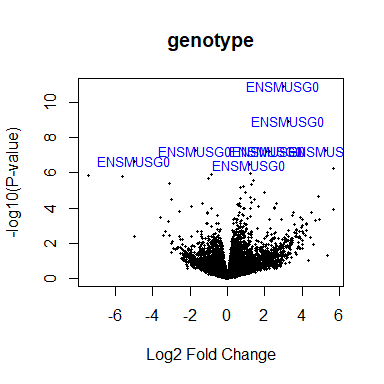
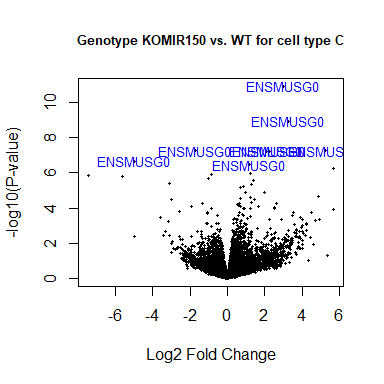
better Venn diagrams

Changed region(s): [[0.1875, 0.0938, 0.9062, 0.1562]]

diff --git a/data_analysis/DE_Analysis_mm_with_quizzes.md b/data_analysis/DE_Analysis_mm_with_quizzes.md
@@ -1833,7 +1833,7 @@ fit <- lmFit(y, mm)
 ```
 
 ```r
-contrast.matrix <- makeContrasts(genotypeKOMIR150, cell_typeNC, levels=colnames(coef(fit)))
+contrast.matrix <- makeContrasts(genotypeKOMIR150, levels=colnames(coef(fit)))
 fit2 <- contrasts.fit(fit, contrast.matrix)
 fit2 <- eBayes(fit2)
 top.table <- topTable(fit2, coef = 1, sort.by = "P", n = 40)
@@ -1843,37 +1843,37 @@ top.table <- topTable(fit2, coef = 1, sort.by = "P", n = 40)
 
 
 ```r
-volcanoplot(fit2, coef=1, highlight=8, names=rownames(fit2), main="genotype")
+volcanoplot(fit2, coef=1, highlight=8, names=rownames(fit2), main="Genotype KOMIR150 vs. WT for cell type C", cex.main = 0.8)
 ```
 
 ![](DE_Analysis_mm_with_quizzes_files/figure-html/unnamed-chunk-18-1.png)<!-- -->
 
 ```r
 head(anno[match(rownames(fit2), anno$Gene.stable.ID.version),
-     c("Gene.stable.ID", "Gene.name") ])
+     c("Gene.stable.ID.version", "Gene.name") ])
 ```
 
 ```
-##           Gene.stable.ID Gene.name
-## 48443 ENSMUSG00000098104    Gm6085
-## 48521 ENSMUSG00000033845    Mrpl15
-## 48766 ENSMUSG00000025903    Lypla1
-## 48915 ENSMUSG00000033813     Tcea1
-## 49347 ENSMUSG00000033793   Atp6v1h
-## 49551 ENSMUSG00000025907    Rb1cc1
+##       Gene.stable.ID.version Gene.name
+## 48443   ENSMUSG00000098104.2    Gm6085
+## 48521  ENSMUSG00000033845.14    Mrpl15
+## 48766  ENSMUSG00000025903.15    Lypla1
+## 48915  ENSMUSG00000033813.16     Tcea1
+## 49347  ENSMUSG00000033793.13   Atp6v1h
+## 49551  ENSMUSG00000025907.15    Rb1cc1
 ```
 
 ```r
-identical(anno[match(rownames(fit2), anno$Gene.stable.ID,version),
+identical(anno[match(rownames(fit2), anno$Gene.stable.ID.version),
      c("Gene.stable.ID.version")], rownames(fit2))
 ```
 
 ```
-## [1] FALSE
+## [1] TRUE
 ```
 
 ```r
-volcanoplot(fit2, coef=1, highlight=8, names=anno[match(rownames(fit2), anno$Gene.stable.ID.version), "Gene.name"], main="genotype")
+volcanoplot(fit2, coef=1, highlight=8, names=anno[match(rownames(fit2), anno$Gene.stable.ID.version), "Gene.name"], main="Genotype KOMIR150 vs. WT for cell type C", cex.main = 0.8)
 ```
 
 ![](DE_Analysis_mm_with_quizzes_files/figure-html/unnamed-chunk-18-2.png)<!-- -->
@@ -1889,51 +1889,51 @@ heatmap.2(logcpm[rownames(top.table),],col=brewer.pal(11,"RdBu"),scale="row", tr
 
 ```r
 anno[match(rownames(top.table), anno$Gene.stable.ID.version),
-     c("Gene.stable.ID", "Gene.name")]
+     c("Gene.stable.ID.version", "Gene.name")]
 ```
 
 ```
-##           Gene.stable.ID     Gene.name
-## 15527 ENSMUSG00000030703         Gdpd3
-## 43284 ENSMUSG00000044229         Nxpe4
-## 25910 ENSMUSG00000032012       Nectin1
-## 52793 ENSMUSG00000030748         Il4ra
-## 54841 ENSMUSG00000040152         Thbs1
-## 4616  ENSMUSG00000066687        Zbtb16
-## 47835 ENSMUSG00000067017    Capza1-ps1
-## 39290 ENSMUSG00000008348           Ubc
-## 27827 ENSMUSG00000096780   Tmem181b-ps
-## 44187 ENSMUSG00000020893          Per1
-## 21589 ENSMUSG00000028028         Alpk1
-## 3187  ENSMUSG00000039146        Ifi44l
-## 3155  ENSMUSG00000028037         Ifi44
-## 27579 ENSMUSG00000030365        Clec2i
-## 19396 ENSMUSG00000055435           Maf
-## 7979  ENSMUSG00000028619       Tceanc2
-## 10870 ENSMUSG00000024772          Ehd1
-## 36587 ENSMUSG00000051495       Irf2bp2
-## 40438 ENSMUSG00000042105        Inpp5f
-## 2310  ENSMUSG00000054008         Ndst1
-## 845   ENSMUSG00000096768       Gm47283
-## 16280 ENSMUSG00000076937         Iglc2
-## 24548 ENSMUSG00000055994          Nod2
-## 38695 ENSMUSG00000070372        Capza1
-## 13097 ENSMUSG00000100801       Gm15459
-## 1995  ENSMUSG00000033863          Klf9
-## 9425  ENSMUSG00000051439          Cd14
-## 41587 ENSMUSG00000035212        Leprot
-## 29618 ENSMUSG00000003545          Fosb
-## 20260 ENSMUSG00000028173           Wls
-## 29012 ENSMUSG00000034342           Cbl
-## 24843 ENSMUSG00000031431       Tsc22d3
-## 51174 ENSMUSG00000040139 9430038I01Rik
-## 38153 ENSMUSG00000048534          Jaml
-## 27991 ENSMUSG00000020108         Ddit4
-## 49768 ENSMUSG00000030577          Cd22
-## 43260 ENSMUSG00000035385          Ccl2
-## 27704 ENSMUSG00000045382         Cxcr4
-## 54994 ENSMUSG00000027435          Cd93
-## 4482  ENSMUSG00000042396          Rbm7
+##       Gene.stable.ID.version     Gene.name
+## 15527   ENSMUSG00000030703.9         Gdpd3
+## 43284  ENSMUSG00000044229.10         Nxpe4
+## 25910  ENSMUSG00000032012.10       Nectin1
+## 52793  ENSMUSG00000030748.10         Il4ra
+## 54841   ENSMUSG00000040152.9         Thbs1
+## 4616    ENSMUSG00000066687.6        Zbtb16
+## 47835   ENSMUSG00000067017.6    Capza1-ps1
+## 39290  ENSMUSG00000008348.10           Ubc
+## 27827   ENSMUSG00000096780.8   Tmem181b-ps
+## 44187  ENSMUSG00000020893.18          Per1
+## 21589  ENSMUSG00000028028.12         Alpk1
+## 3187    ENSMUSG00000039146.6        Ifi44l
+## 3155   ENSMUSG00000028037.14         Ifi44
+## 27579  ENSMUSG00000030365.12        Clec2i
+## 19396   ENSMUSG00000055435.7           Maf
+## 7979   ENSMUSG00000028619.16       Tceanc2
+## 10870  ENSMUSG00000024772.10          Ehd1
+## 36587   ENSMUSG00000051495.9       Irf2bp2
+## 40438  ENSMUSG00000042105.19        Inpp5f
+## 2310   ENSMUSG00000054008.10         Ndst1
+## 845     ENSMUSG00000096768.9       Gm47283
+## 16280   ENSMUSG00000076937.4         Iglc2
+## 24548  ENSMUSG00000055994.16          Nod2
+## 38695  ENSMUSG00000070372.12        Capza1
+## 13097   ENSMUSG00000100801.2       Gm15459
+## 1995    ENSMUSG00000033863.3          Klf9
+## 9425    ENSMUSG00000051439.8          Cd14
+## 41587  ENSMUSG00000035212.15        Leprot
+## 29618   ENSMUSG00000003545.4          Fosb
+## 20260  ENSMUSG00000028173.11           Wls
+## 29012  ENSMUSG00000034342.10           Cbl
+## 24843  ENSMUSG00000031431.14       Tsc22d3
+## 51174  ENSMUSG00000040139.15 9430038I01Rik
+## 38153   ENSMUSG00000048534.8          Jaml
+## 27991   ENSMUSG00000020108.5         Ddit4
+## 49768  ENSMUSG00000030577.15          Cd22
+## 43260   ENSMUSG00000035385.6          Ccl2
+## 27704   ENSMUSG00000045382.7         Cxcr4
+## 54994   ENSMUSG00000027435.9          Cd93
+## 4482   ENSMUSG00000042396.11          Rbm7
 ```
 
 ```r
@@ -1954,8 +1954,39 @@ heatmap.2(logcpm[rownames(top.table),],col=brewer.pal(11,"RdBu"),scale="row", tr
 
 
 ```r
+mm <- model.matrix(~genotype*cell_type + mouse)
+colnames(mm) <- make.names(colnames(mm))
+y <- voom(d, mm, plot = F)
+```
+
+```
+## Coefficients not estimable: mouse206 mouse7531
+```
+
+```
+## Warning: Partial NA coefficients for 12954 probe(s)
+```
+
+```r
+fit <- lmFit(y, mm)
+```
+
+```
+## Coefficients not estimable: mouse206 mouse7531
+```
+
+```
+## Warning: Partial NA coefficients for 12954 probe(s)
+```
+
+```r
+contrast.matrix <- makeContrasts(genotypeKOMIR150, genotypeKOMIR150 + genotypeKOMIR150.cell_typeNC, levels=colnames(coef(fit)))
+fit2 <- contrasts.fit(fit, contrast.matrix)
+fit2 <- eBayes(fit2)
+top.table <- topTable(fit2, coef = 1, sort.by = "P", n = 40)
+
 results <- decideTests(fit2)
-vennDiagram(results)
+vennDiagram(results, names = c("C", "NC"), main = "DE Genes Between KOMIR150 and WT by Cell Type", cex.main = 0.8)
 ```
 
 ![](DE_Analysis_mm_with_quizzes_files/figure-html/unnamed-chunk-20-1.png)<!-- -->
@@ -1972,7 +2003,7 @@ sessionInfo()
 ```
 
 ```
-## R version 4.1.0 (2021-05-18)
+## R version 4.1.1 (2021-08-10)
 ## Platform: x86_64-w64-mingw32/x64 (64-bit)
 ## Running under: Windows 10 x64 (build 19042)
 ## 
@@ -1993,9 +2024,9 @@ sessionInfo()
 ## 
 ## loaded via a namespace (and not attached):
 ##  [1] Rcpp_1.0.6         locfit_1.5-9.4     lattice_0.20-44    gtools_3.9.2      
-##  [5] digest_0.6.27      bitops_1.0-7       grid_4.1.0         magrittr_2.0.1    
+##  [5] digest_0.6.27      bitops_1.0-7       grid_4.1.1         magrittr_2.0.1    
 ##  [9] evaluate_0.14      highr_0.9          KernSmooth_2.23-20 rlang_0.4.11      
-## [13] stringi_1.6.2      rmarkdown_2.8      tools_4.1.0        stringr_1.4.0     
-## [17] xfun_0.23          yaml_2.2.1         compiler_4.1.0     caTools_1.18.2    
+## [13] stringi_1.6.2      rmarkdown_2.8      tools_4.1.1        stringr_1.4.0     
+## [17] xfun_0.23          yaml_2.2.1         compiler_4.1.1     caTools_1.18.2    
 ## [21] htmltools_0.5.1.1  knitr_1.33
 ```
